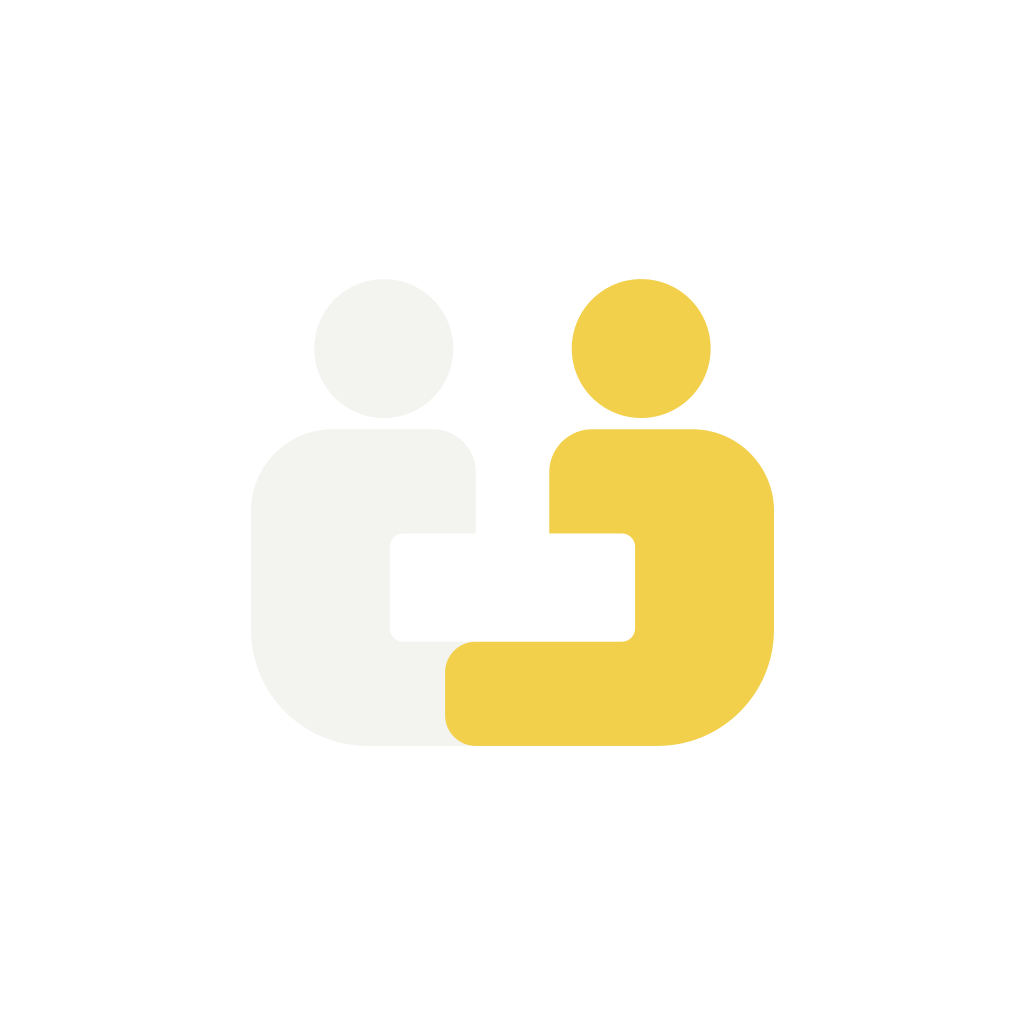
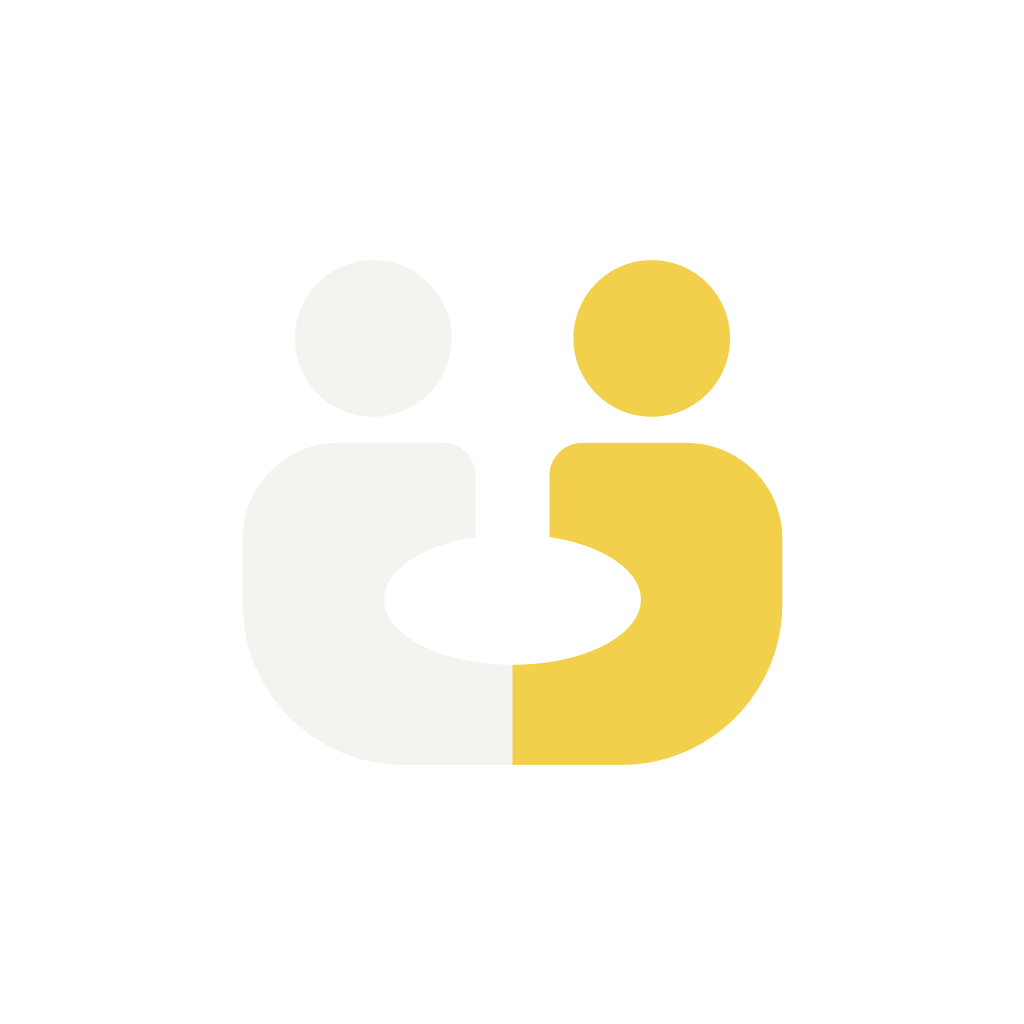
feat(brand): redrawn symbol and lettering, regenerated assets

diff --git a/ui/nidoSymbol.ts b/ui/nidoSymbol.ts
@@ -1,16 +1,23 @@
 import { palettes, type Scheme } from './tokens';
 
-/** Geometry of assets/brand/symbol.svg (viewBox 0 0 512 512). */
+/**
+ * Geometry of assets/brand/symbol.svg (viewBox 0 0 512 512). `monoPath` is the body from
+ * symbol-mono.svg: in one ink the bases stop either side of a 24-unit seam so the people stay apart.
+ */
 export const NIDO_SYMBOL_VIEWBOX = '0 0 512 512';
 
 export const NIDO_SYMBOL_PATHS = {
   left: {
-    circle: { cx: 130, cy: 95.5, r: 68 },
-    path: 'M0 254.5A80 80 0 0 1 80 174.5H178A42 42 0 0 1 220 216.5V276.5H149A13 13 0 0 0 136 289.5V369.5A13 13 0 0 0 149 382.5H220V484.5H114A114 114 0 0 1 0 370.5Z',
+    circle: { cx: 128, cy: 96, r: 72 },
+    path: 'M8 280A88 88 0 0 1 96 192L192 192A30 30 0 0 1 222 222L222 278.54A118 60 0 0 0 264 395.86L264 488L156 488A148 148 0 0 1 8 340Z',
+    monoPath:
+      'M8 280A88 88 0 0 1 96 192L192 192A30 30 0 0 1 222 222L222 278.54A118 60 0 0 0 244 395.69L244 478A10 10 0 0 1 234 488L156 488A148 148 0 0 1 8 340Z',
   },
   right: {
-    circle: { cx: 382, cy: 95.5, r: 68 },
-    path: 'M512 254.5V370.5A114 114 0 0 1 398 484.5H220A30 30 0 0 1 190 454.5V412.5A30 30 0 0 1 220 382.5H363A13 13 0 0 0 376 369.5V289.5A13 13 0 0 0 363 276.5H292V216.5A42 42 0 0 1 334 174.5H432A80 80 0 0 1 512 254.5Z',
+    circle: { cx: 384, cy: 96, r: 72 },
+    path: 'M504 280A88 88 0 0 0 416 192L320 192A30 30 0 0 0 290 222L290 278.54A118 60 0 0 1 256 396L256 488L356 488A148 148 0 0 0 504 340Z',
+    monoPath:
+      'M504 280A88 88 0 0 0 416 192L320 192A30 30 0 0 0 290 222L290 278.54A118 60 0 0 1 268 395.69L268 478A10 10 0 0 0 278 488L356 488A148 148 0 0 0 504 340Z',
   },
 } as const;
 

diff --git a/supabase/templates/confirmation.html b/supabase/templates/confirmation.html
@@ -17,7 +17,7 @@
     <table role="presentation" width="100%" cellpadding="0" cellspacing="0" border="0" bgcolor="#F3F4F0" style="background: #F3F4F0;">
       <tr>
         <td align="center" bgcolor="#2E3B41" style="background: #2E3B41; padding: 28px 16px 64px;">
-          <img src="https://fyojaslimsgcabfbqdba.supabase.co/storage/v1/object/public/email-assets/nido-symbol-v2.png" width="48" height="48" alt="" style="display: block; width: 48px; height: 48px; border: 0;">
+          <img src="https://fyojaslimsgcabfbqdba.supabase.co/storage/v1/object/public/email-assets/nido-symbol-v3.png" width="48" height="48" alt="" style="display: block; width: 48px; height: 48px; border: 0;">
           <p style="margin: 8px 0 0; font-family: 'M PLUS Rounded 1c', 'Arial Rounded MT Bold', Arial, Helvetica, sans-serif; font-size: 22px; font-weight: 800; color: #F3F4F0;">Nido</p>
           <p style="margin: 2px 0 0; font-family: 'M PLUS Rounded 1c', 'Arial Rounded MT Bold', Arial, Helvetica, sans-serif; font-size: 14px; color: #F3F4F0;">La casa, en equipo.</p>
         </td>

diff --git a/supabase/templates/password_changed.html b/supabase/templates/password_changed.html
@@ -17,7 +17,7 @@
     <table role="presentation" width="100%" cellpadding="0" cellspacing="0" border="0" bgcolor="#F3F4F0" style="background: #F3F4F0;">
       <tr>
         <td align="center" bgcolor="#2E3B41" style="background: #2E3B41; padding: 28px 16px 64px;">
-          <img src="https://fyojaslimsgcabfbqdba.supabase.co/storage/v1/object/public/email-assets/nido-symbol-v2.png" width="48" height="48" alt="" style="display: block; width: 48px; height: 48px; border: 0;">
+          <img src="https://fyojaslimsgcabfbqdba.supabase.co/storage/v1/object/public/email-assets/nido-symbol-v3.png" width="48" height="48" alt="" style="display: block; width: 48px; height: 48px; border: 0;">
           <p style="margin: 8px 0 0; font-family: 'M PLUS Rounded 1c', 'Arial Rounded MT Bold', Arial, Helvetica, sans-serif; font-size: 22px; font-weight: 800; color: #F3F4F0;">Nido</p>
           <p style="margin: 2px 0 0; font-family: 'M PLUS Rounded 1c', 'Arial Rounded MT Bold', Arial, Helvetica, sans-serif; font-size: 14px; color: #F3F4F0;">La casa, en equipo.</p>
         </td>

diff --git a/supabase/templates/recovery.html b/supabase/templates/recovery.html
@@ -17,7 +17,7 @@
     <table role="presentation" width="100%" cellpadding="0" cellspacing="0" border="0" bgcolor="#F3F4F0" style="background: #F3F4F0;">
       <tr>
         <td align="center" bgcolor="#2E3B41" style="background: #2E3B41; padding: 28px 16px 64px;">
-          <img src="https://fyojaslimsgcabfbqdba.supabase.co/storage/v1/object/public/email-assets/nido-symbol-v2.png" width="48" height="48" alt="" style="display: block; width: 48px; height: 48px; border: 0;">
+          <img src="https://fyojaslimsgcabfbqdba.supabase.co/storage/v1/object/public/email-assets/nido-symbol-v3.png" width="48" height="48" alt="" style="display: block; width: 48px; height: 48px; border: 0;">
           <p style="margin: 8px 0 0; font-family: 'M PLUS Rounded 1c', 'Arial Rounded MT Bold', Arial, Helvetica, sans-serif; font-size: 22px; font-weight: 800; color: #F3F4F0;">Nido</p>
           <p style="margin: 2px 0 0; font-family: 'M PLUS Rounded 1c', 'Arial Rounded MT Bold', Arial, Helvetica, sans-serif; font-size: 14px; color: #F3F4F0;">La casa, en equipo.</p>
         </td>

diff --git a/ui/components/NidoSymbol.tsx b/ui/components/NidoSymbol.tsx
@@ -8,7 +8,7 @@ const TILE_INSET = 8;
 
 /**
  * The Nido symbol: two figures sharing a hollow. Decorative. `onSlate` drops the slate tile for
- * use on the brand band; `mono` draws both figures in that one colour, with no tile.
+ * use on the brand band; `mono` draws both figures in that one colour, with no tile and the mono seam between the bases.
  */
 export function NidoSymbol({
   size,
@@ -36,11 +36,11 @@ export function NidoSymbol({
     >
       <G fill={c.left}>
         <Circle {...left.circle} />
-        <Path d={left.path} />
+        <Path d={mono === undefined ? left.path : left.monoPath} />
       </G>
       <G fill={c.right}>
         <Circle {...right.circle} />
-        <Path d={right.path} />
+        <Path d={mono === undefined ? right.path : right.monoPath} />
       </G>
     </Svg>
   );
